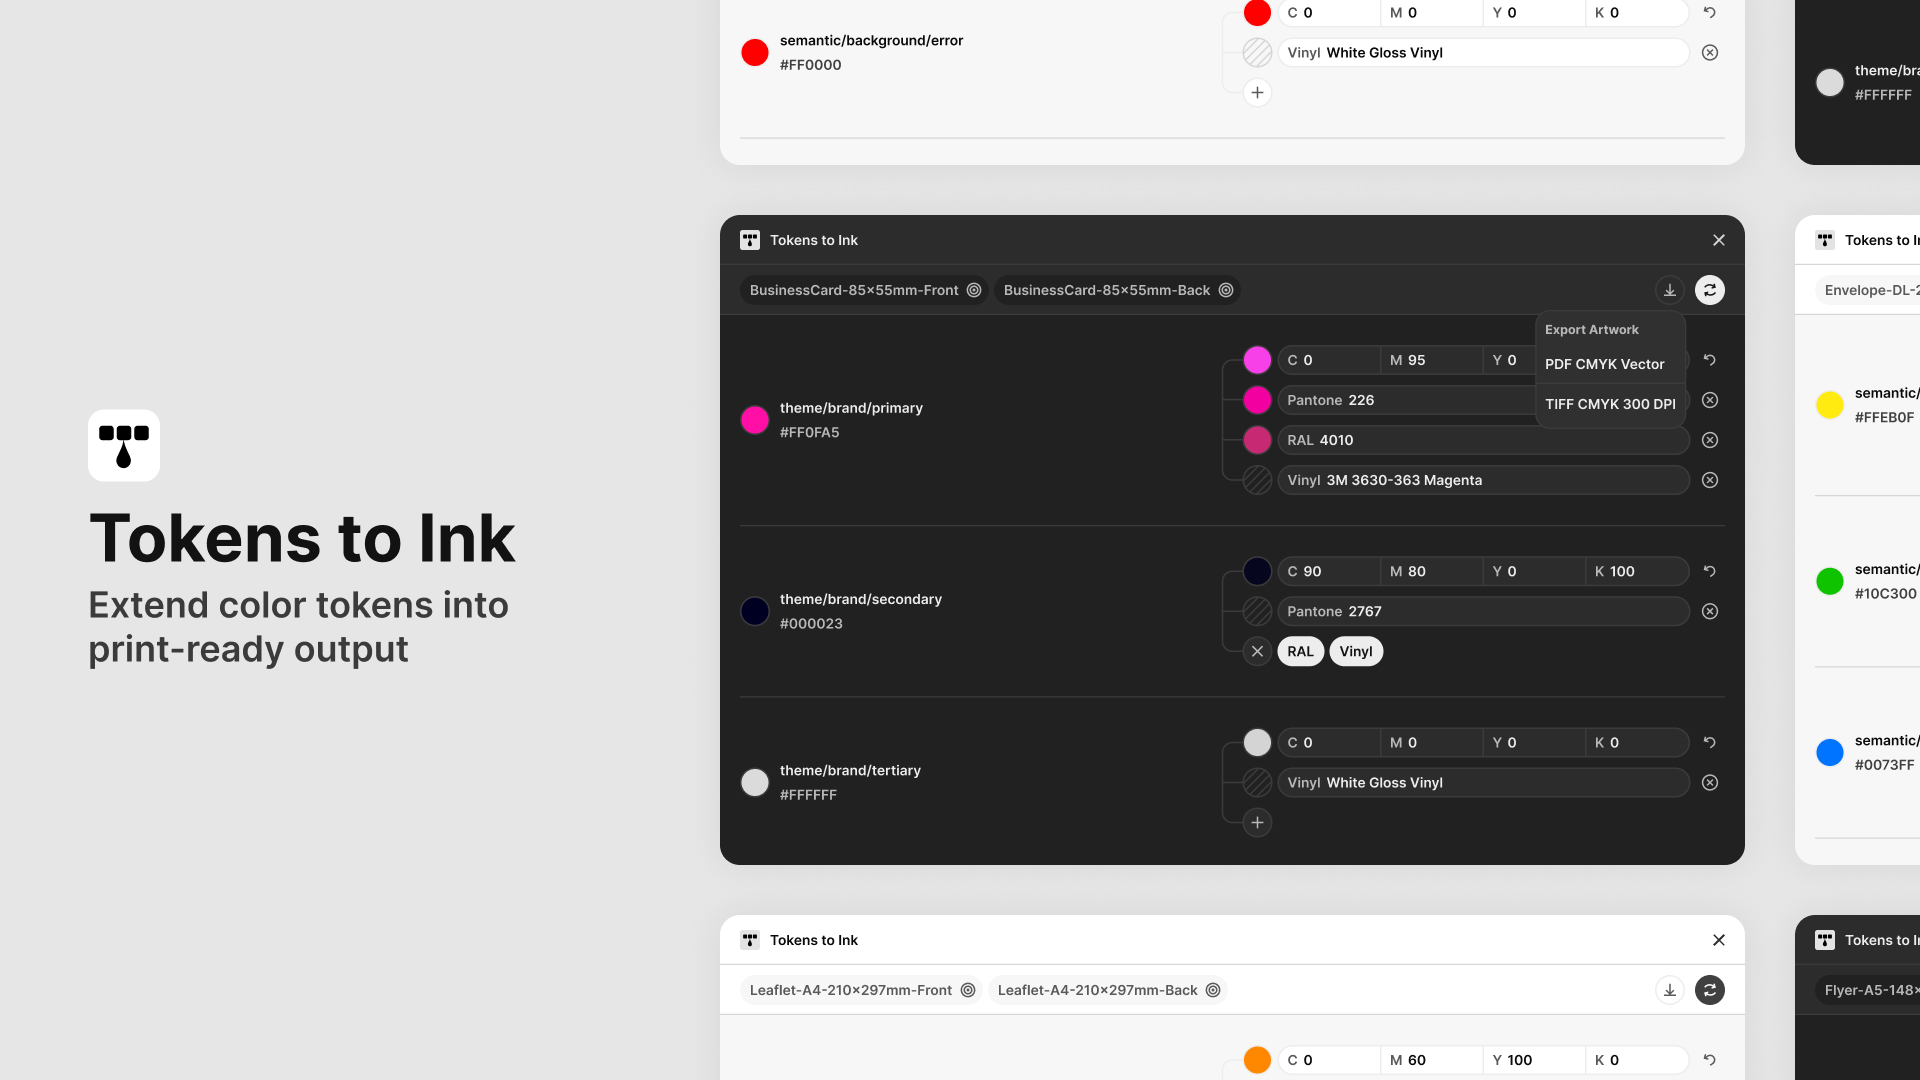
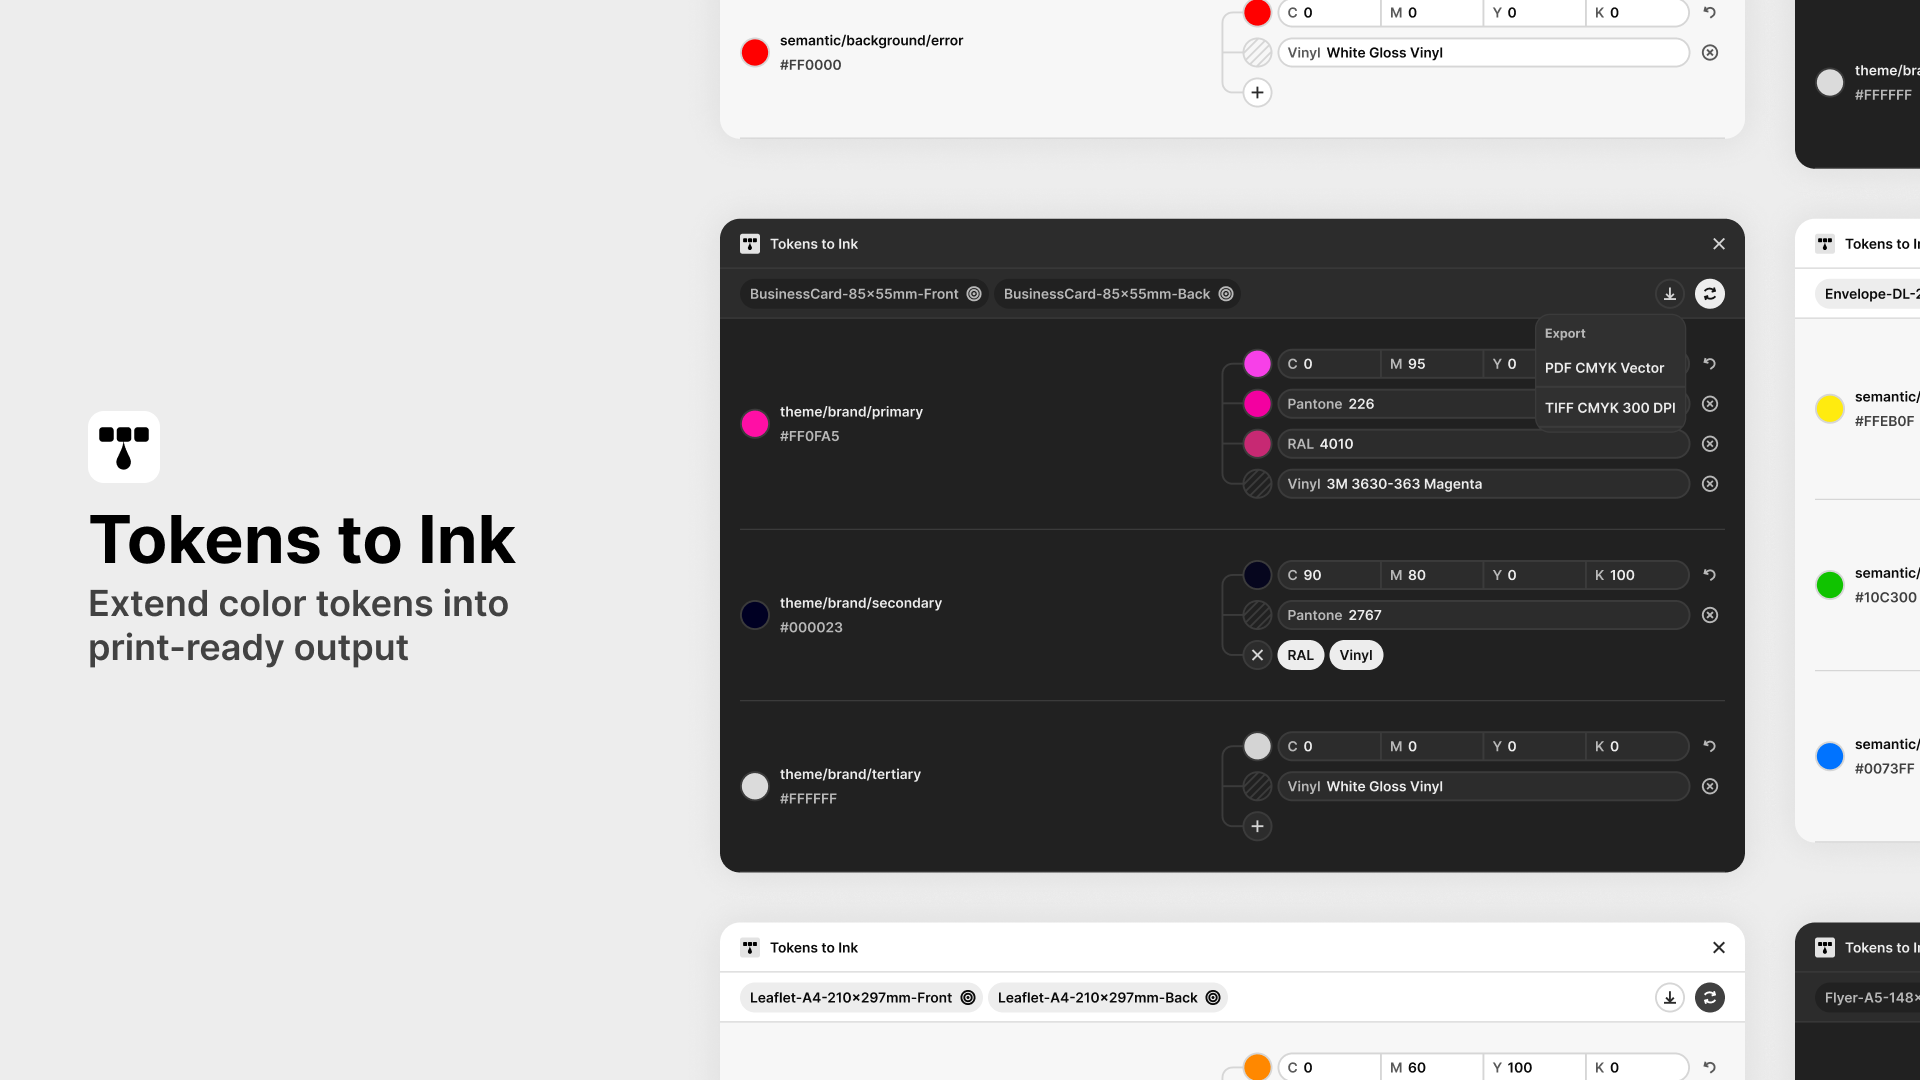
docs: add the Tokens to Ink preview image to the README

diff --git a/README.md b/README.md
@@ -55,6 +55,8 @@ print-ready values, using the same variables you already use.
 
 ![Tokens to Ink](docs/tokens-to-ink.png)
 
+![Tokens to Ink preview](docs/tokens-to-ink-preview.png)
+
 ---
 
 ## Font Scaling Lab
